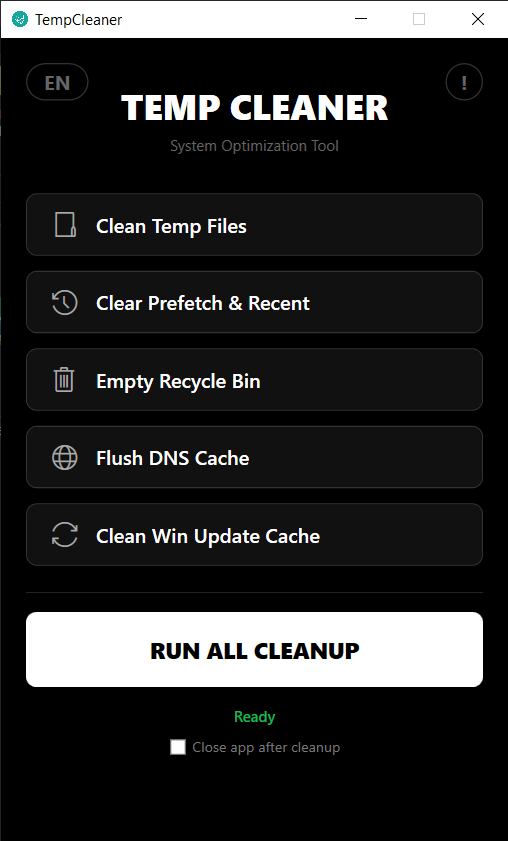
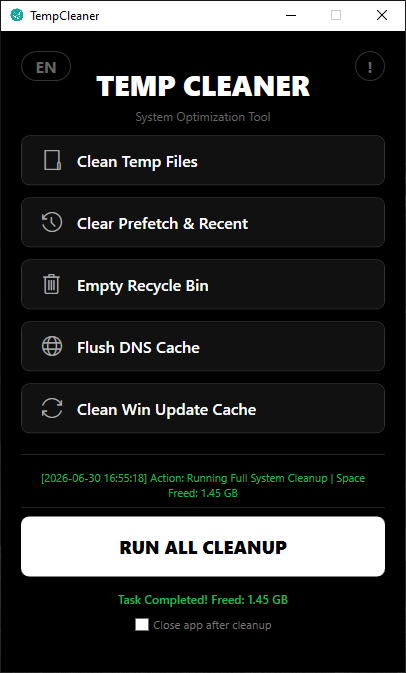
feat: implement local logging, UI history display, and dynamic system paths
- Added 'app.manifest' to enforce Administrator privileges for deep system cleanup.
- Replaced hardcoded 'C:\' paths with dynamic environment variables for cross-device compatibility.
- Introduced zero-telemetry local logging (TempCleaner_History.log) to track space freed.
- Integrated 'LastRunText' into the main UI to display the latest cleanup record directly to the user.
- Refactored exception handling to gracefully bypass locked or protected system files.
- Updated developer metadata and improved main UI layout margins.

diff --git a/TempCleaner/MainWindow.xaml b/TempCleaner/MainWindow.xaml
@@ -63,7 +63,6 @@
 
     <Grid x:Name="LayoutRoot">
         <Grid Margin="20">
-            <!-- Top bar with language toggle and dev info -->
             <Grid>
                 <Button x:Name="LangToggleBtn" Style="{StaticResource TopIconButtonStyle}" 
                         Width="50" Height="30" HorizontalAlignment="Left" VerticalAlignment="Top"
@@ -77,7 +76,7 @@
 
             <StackPanel Margin="0,15,0,0">
                 <TextBlock x:Name="MainTitleText" Text="TEMP CLEANER" FontSize="28" FontWeight="Black" HorizontalAlignment="Center" Margin="0,0,0,5"/>
-                <TextBlock x:Name="SubtitleText" Text="System Optimization Tool" Foreground="#666666" HorizontalAlignment="Center" Margin="0,0,0,25"/>
+                <TextBlock x:Name="SubtitleText" Text="System Optimization Tool" Foreground="#666666" HorizontalAlignment="Center" Margin="0,0,0,5"/>
 
                 <Button x:Name="CleanTempButton" Style="{StaticResource ModernButtonStyle}" Margin="0,6" Click="CleanTemp_Click">
                     <StackPanel Orientation="Horizontal" VerticalAlignment="Center">
@@ -115,6 +114,8 @@
                 </Button>
 
                 <Separator Background="#222222" Margin="0,15"/>
+                <TextBlock x:Name="LastRunText" Text="Last Run: Checking log..." Foreground="#1DB954" FontSize="11" TextWrapping="Wrap" TextAlignment="Center" MaxWidth="350"/>
+                <Separator Background="#222222" Height="13"/>
 
                 <Button x:Name="RunAllButton" Background="#FFFFFF" Foreground="Black" FontSize="18" FontWeight="Black" Height="60" Cursor="Hand" Click="RunAll_Click">
                     <Button.Template>
@@ -138,22 +139,21 @@
             </StackPanel>
         </Grid>
 
-        <!-- Dev modal (unchanged) -->
         <Grid x:Name="DevModal" Background="#E6000000" Visibility="Collapsed" Panel.ZIndex="100">
             <Border Background="#0A0A0A" BorderBrush="#333333" BorderThickness="1" CornerRadius="10" 
                     HorizontalAlignment="Center" VerticalAlignment="Center" Padding="30" Width="300">
                 <StackPanel HorizontalAlignment="Center">
                     <TextBlock Text="👻" FontSize="45" HorizontalAlignment="Center" Margin="0,0,0,15"/>
                     <TextBlock x:Name="DevModalTitleText" Text="Developer Info" Foreground="White" FontSize="20" FontWeight="Bold" HorizontalAlignment="Center" Margin="0,0,0,20"/>
-                    <TextBlock x:Name="DevNameText" Text="Ali Al-ojeely" Foreground="White" FontSize="18" FontWeight="SemiBold" HorizontalAlignment="Center"/>
+                    <TextBlock x:Name="DevNameText" Text="Nasser Al-Nimr" Foreground="White" FontSize="18" FontWeight="SemiBold" HorizontalAlignment="Center"/>
                     <TextBlock x:Name="DevNicknameText" Text="(Mr.Ghost)" Foreground="#AAAAAA" FontSize="14" HorizontalAlignment="Center" Margin="0,0,0,10"/>
                     <TextBlock x:Name="DevEmailText" Text="[email redacted]" Foreground="#888888" FontSize="13" HorizontalAlignment="Center" Margin="0,0,0,10"/>
                     <TextBlock HorizontalAlignment="Center" Margin="0,0,0,15">
-                        <Hyperlink NavigateUri="https://github.com/AliAl-ojeely" RequestNavigate="Hyperlink_RequestNavigate" Foreground="#1DB954" TextDecorations="None" FontWeight="Bold">
+                        <Hyperlink NavigateUri="https://github.com/NasserAlNimr" RequestNavigate="Hyperlink_RequestNavigate" Foreground="#1DB954" TextDecorations="None" FontWeight="Bold">
                             <TextBlock x:Name="GitHubLinkText" Text="GitHub Profile"/>
                         </Hyperlink>
                     </TextBlock>
-                    <TextBlock x:Name="VersionText" Text="version 2.5" Foreground="#555555" FontSize="12" HorizontalAlignment="Center" Margin="0,0,0,20"/>
+                    <TextBlock x:Name="VersionText" Text="version 2.7" Foreground="#555555" FontSize="12" HorizontalAlignment="Center" Margin="0,0,0,20"/>
                     <Button x:Name="CloseModalButton" Content="CLOSE" Width="100" Height="40" Background="#111" Foreground="White" BorderBrush="#333" BorderThickness="1" Cursor="Hand" Click="CloseModal_Click">
                         <Button.Template>
                             <ControlTemplate TargetType="Button">

diff --git a/TempCleaner/MainWindow.xaml.cs b/TempCleaner/MainWindow.xaml.cs
@@ -20,13 +20,15 @@ namespace TempCleaner
         // List of UI elements to disable during cleanup
         private List<UIElement> _cleanupControls;
 
+        // Dynamic Windows directory path
+        private readonly string _windowsDir = Environment.GetFolderPath(Environment.SpecialFolder.Windows);
+
         public MainWindow()
         {
             InitializeComponent();
             InitializeLocalizationDictionaries();
             SetLanguage(AppLanguage.English);
 
-            // Collect all controls that must be disabled during any cleanup
             _cleanupControls = new List<UIElement>
             {
                 CleanTempButton,
@@ -39,6 +41,8 @@ namespace TempCleaner
                 DevInfoButton,
                 AutoCloseCheckBox
             };
+
+            LoadLastRunInfo();
         }
 
         private void InitializeLocalizationDictionaries()
@@ -64,11 +68,11 @@ namespace TempCleaner
             _englishStrings["TaskFreedFormat"] = "Task Completed! Freed: {0}";
             _englishStrings["TaskCompletedSuccess"] = "Task Completed Successfully!";
             _englishStrings["DevInfoTitle"] = "Developer Info";
-            _englishStrings["DevName"] = "Ali Al-ojeely";
+            _englishStrings["DevName"] = "Nasser Al-Nimr";
             _englishStrings["DevNickname"] = "(Mr.Ghost)";
             _englishStrings["DevEmail"] = "[email redacted]";
             _englishStrings["GitHubLink"] = "GitHub Profile";
-            _englishStrings["Version"] = "version 2.5";
+            _englishStrings["Version"] = "version 2.7";
             _englishStrings["CloseButton"] = "CLOSE";
             _englishStrings["LangToggleEN"] = "EN";
             _englishStrings["LangToggleAR"] = "AR";
@@ -94,11 +98,11 @@ namespace TempCleaner
             _arabicStrings["TaskFreedFormat"] = "تمت المهمة! تم تحرير: {0}";
             _arabicStrings["TaskCompletedSuccess"] = "تمت المهمة بنجاح!";
             _arabicStrings["DevInfoTitle"] = "معلومات المطور";
-            _arabicStrings["DevName"] = "علي العجيلي";
+            _arabicStrings["DevName"] = "ناصر النمر";
             _arabicStrings["DevNickname"] = "(السيد غوست)";
             _arabicStrings["DevEmail"] = "[email redacted]";
-            _arabicStrings["GitHubLink"] = "ملف غيت هاب";
-            _arabicStrings["Version"] = "الإصدار 2.5";
+            _arabicStrings["GitHubLink"] = "GitHub Profile";
+            _arabicStrings["Version"] = "الإصدار 2.7";
             _arabicStrings["CloseButton"] = "إغلاق";
             _arabicStrings["LangToggleEN"] = "EN";
             _arabicStrings["LangToggleAR"] = "عربي";
@@ -162,7 +166,7 @@ namespace TempCleaner
         }
 
         // --------------------------------------------------------
-        //  Button Click Handlers – each calls RunCleanupTask
+        //  Button Click Handlers
         // --------------------------------------------------------
         private async void CleanTemp_Click(object sender, RoutedEventArgs e)
         {
@@ -170,7 +174,7 @@ namespace TempCleaner
             {
                 long freed = 0;
                 freed += CleanDirectory(Path.GetTempPath());
-                freed += CleanDirectory(@"C:\Windows\Temp");
+                freed += CleanDirectory(Path.Combine(_windowsDir, "Temp"));
                 return freed;
             });
         }
@@ -180,7 +184,7 @@ namespace TempCleaner
             await RunCleanupTask(GetString("CleaningPrefetch"), () =>
             {
                 long freed = 0;
-                freed += CleanDirectory(@"C:\Windows\Prefetch");
+                freed += CleanDirectory(Path.Combine(_windowsDir, "Prefetch"));
                 string recentPath = Path.Combine(Environment.GetFolderPath(Environment.SpecialFolder.ApplicationData), @"Microsoft\Windows\Recent");
                 freed += CleanDirectory(recentPath);
                 return freed;
@@ -212,7 +216,7 @@ namespace TempCleaner
                 long freed = 0;
                 ExecuteCommand("net.exe", "stop wuauserv");
                 ExecuteCommand("net.exe", "stop bits");
-                freed += CleanDirectory(@"C:\Windows\SoftwareDistribution\Download");
+                freed += CleanDirectory(Path.Combine(_windowsDir, @"SoftwareDistribution\Download"));
                 ExecuteCommand("net.exe", "start wuauserv");
                 ExecuteCommand("net.exe", "start bits");
                 return freed;
@@ -225,27 +229,30 @@ namespace TempCleaner
             {
                 long totalFreed = 0;
                 totalFreed += CleanDirectory(Path.GetTempPath());
-                totalFreed += CleanDirectory(@"C:\Windows\Temp");
-                totalFreed += CleanDirectory(@"C:\Windows\Prefetch");
+                totalFreed += CleanDirectory(Path.Combine(_windowsDir, "Temp"));
+                totalFreed += CleanDirectory(Path.Combine(_windowsDir, "Prefetch"));
+
                 string recentPath = Path.Combine(Environment.GetFolderPath(Environment.SpecialFolder.ApplicationData), @"Microsoft\Windows\Recent");
                 totalFreed += CleanDirectory(recentPath);
+
                 ExecuteCommand("powershell.exe", "-Command \"Clear-RecycleBin -Force -ErrorAction SilentlyContinue\"");
                 ExecuteCommand("ipconfig.exe", "/flushdns");
+
                 ExecuteCommand("net.exe", "stop wuauserv");
                 ExecuteCommand("net.exe", "stop bits");
-                totalFreed += CleanDirectory(@"C:\Windows\SoftwareDistribution\Download");
+                totalFreed += CleanDirectory(Path.Combine(_windowsDir, @"SoftwareDistribution\Download"));
                 ExecuteCommand("net.exe", "start wuauserv");
                 ExecuteCommand("net.exe", "start bits");
+
                 return totalFreed;
             });
         }
 
         // --------------------------------------------------------
-        //  Core cleanup runner with UI disable/enable logic
+        //  Core cleanup runner with UI disable/enable and LOGGING
         // --------------------------------------------------------
         private async Task RunCleanupTask(string startMessage, Func<long> cleanupAction)
         {
-            // Disable all interactive controls so user can't click anything else
             SetControlsEnabled(false);
 
             try
@@ -257,6 +264,12 @@ namespace TempCleaner
                 long bytesFreed = await Task.Run(cleanupAction);
 
                 CleanProgress.Visibility = Visibility.Collapsed;
+
+                // Create a clean action name for the log (removing trailing dots)
+                string actionNameForLog = startMessage.Replace("...", "").Trim();
+
+                // Write to our local log file
+                WriteToLog(actionNameForLog, bytesFreed);
 
                 if (bytesFreed > 0)
                     StatusText.Text = string.Format(GetString("TaskFreedFormat"), FormatBytes(bytesFreed));
@@ -273,14 +286,10 @@ namespace TempCleaner
             }
             finally
             {
-                // Re-enable all controls even if an error occurred
                 SetControlsEnabled(true);
             }
         }
 
-        /// <summary>
-        /// Enables or disables all buttons/controls that should be locked during cleanup.
-        /// </summary>
         private void SetControlsEnabled(bool enabled)
         {
             foreach (var control in _cleanupControls)
@@ -290,8 +299,33 @@ namespace TempCleaner
         }
 
         // --------------------------------------------------------
-        //  Helper methods (unchanged from original)
+        //  Helper methods
         // --------------------------------------------------------
+
+        /// <summary>
+        /// Writes a record of the cleanup task to a local log file.
+        /// </summary>
+        private void WriteToLog(string actionName, long bytesFreed)
+        {
+            try
+            {
+                // File will be created in the same folder as the .exe
+                string logFilePath = Path.Combine(AppDomain.CurrentDomain.BaseDirectory, "TempCleaner_History.log");
+                string timestamp = DateTime.Now.ToString("yyyy-MM-dd HH:mm:ss");
+                string formattedSize = FormatBytes(bytesFreed);
+
+                // Format: [2026-06-30 15:30:00] Action: Cleaning Temp Files | Space Freed: 250.50 MB
+                string logEntry = $"[{timestamp}] Action: {actionName} | Space Freed: {formattedSize}{Environment.NewLine}";
+
+                File.AppendAllText(logFilePath, logEntry);
+                Dispatcher.Invoke(() => LoadLastRunInfo());
+            }
+            catch
+            {
+                // Silently ignore if file is locked so the app doesn't crash
+            }
+        }
+
         private long CleanDirectory(string path)
         {
             if (!Directory.Exists(path)) return 0;
@@ -307,7 +341,8 @@ namespace TempCleaner
                     file.Delete();
                     freedSpace += size;
                 }
-                catch { }
+                catch (UnauthorizedAccessException) { }
+                catch (IOException) { }
             }
 
             foreach (var dir in di.GetDirectories())
@@ -317,7 +352,8 @@ namespace TempCleaner
                     freedSpace += CleanDirectory(dir.FullName);
                     dir.Delete(true);
                 }
-                catch { }
+                catch (UnauthorizedAccessException) { }
+                catch (IOException) { }
             }
 
             return freedSpace;
@@ -325,6 +361,8 @@ namespace TempCleaner
 
         private string FormatBytes(long bytes)
         {
+            if (bytes == 0) return "0 B";
+
             string[] suffixes = { "B", "KB", "MB", "GB", "TB" };
             int counter = 0;
             decimal number = bytes;
@@ -353,7 +391,36 @@ namespace TempCleaner
                     process?.WaitForExit();
                 }
             }
-            catch { }
+            catch (System.ComponentModel.Win32Exception)
+            {
+            }
+        }
+
+        private void LoadLastRunInfo()
+        {
+            try
+            {
+                string logFilePath = Path.Combine(AppDomain.CurrentDomain.BaseDirectory, "TempCleaner_History.log");
+                if (File.Exists(logFilePath))
+                {
+                    string[] lines = File.ReadAllLines(logFilePath);
+                    for (int i = lines.Length - 1; i >= 0; i--)
+                    {
+                        if (!string.IsNullOrWhiteSpace(lines[i]))
+                        {
+                            string lastEntry = lines[i].Replace(Environment.NewLine, "");
+                            LastRunText.Text = lastEntry;
+                            return;
+                        }
+                    }
+                }
+
+                LastRunText.Text = _currentLanguage == AppLanguage.Arabic ? "لا توجد عمليات تنظيف سابقة" : "No previous cleanups found";
+            }
+            catch
+            {
+                LastRunText.Text = "";
+            }
         }
     }
 }